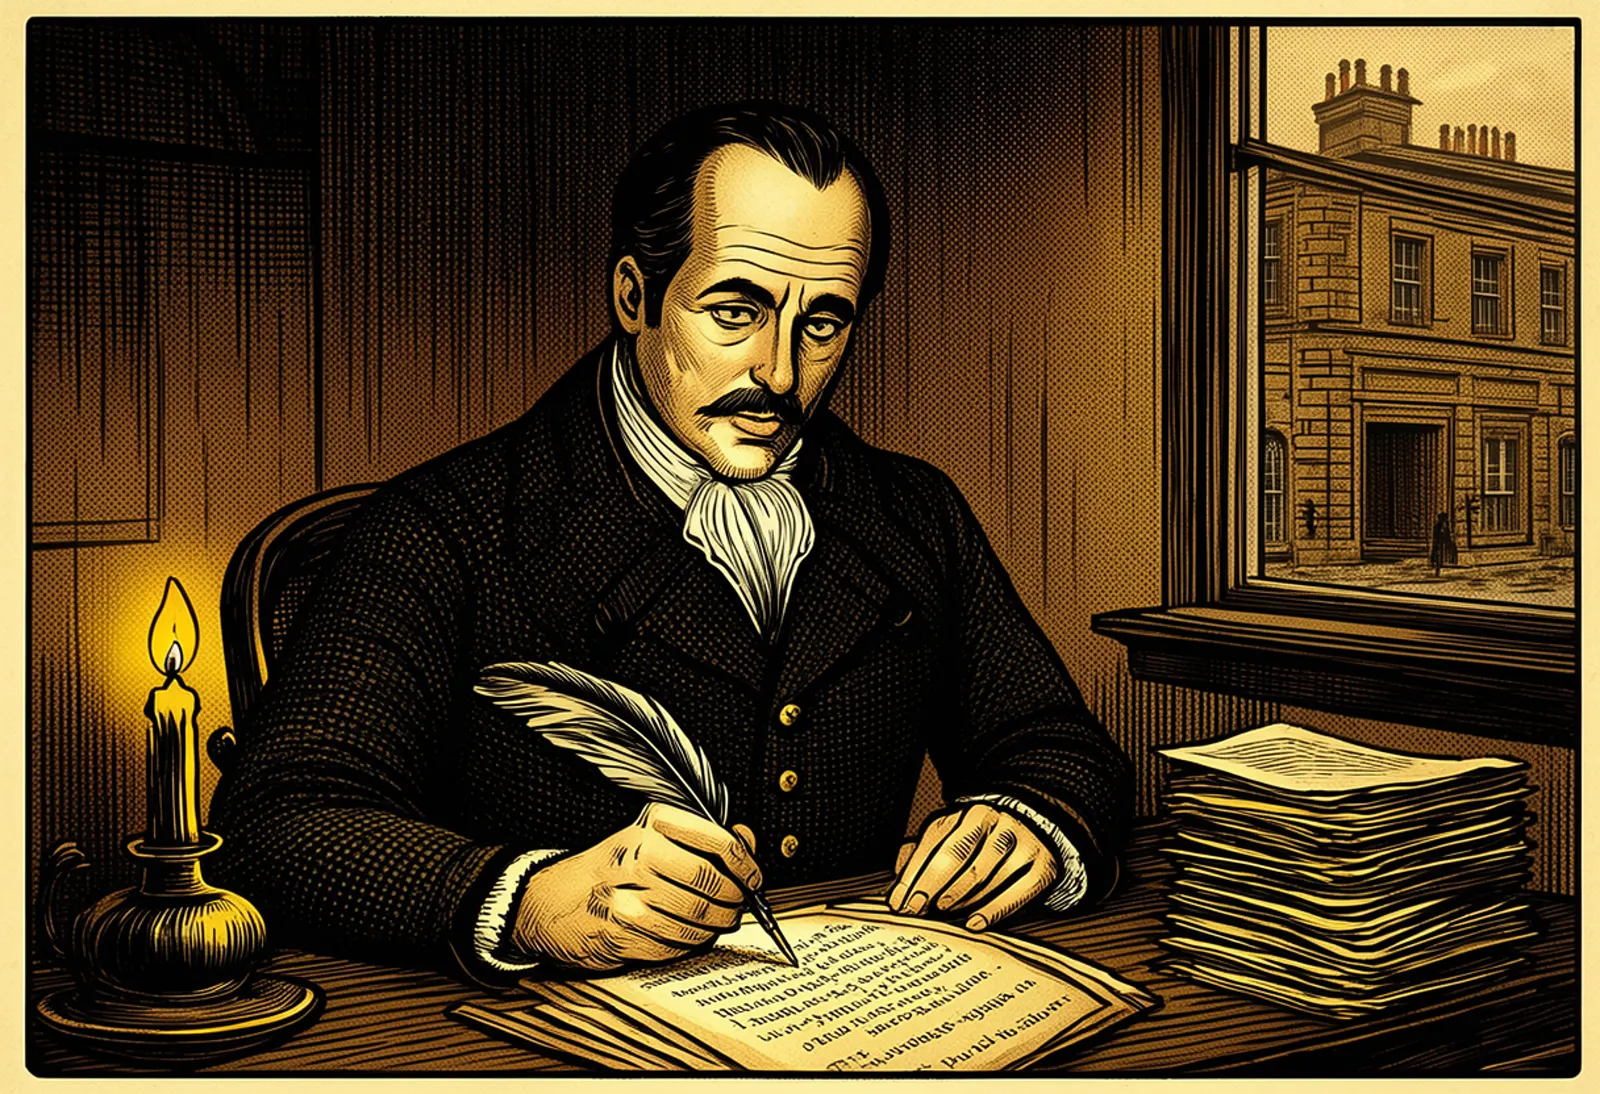
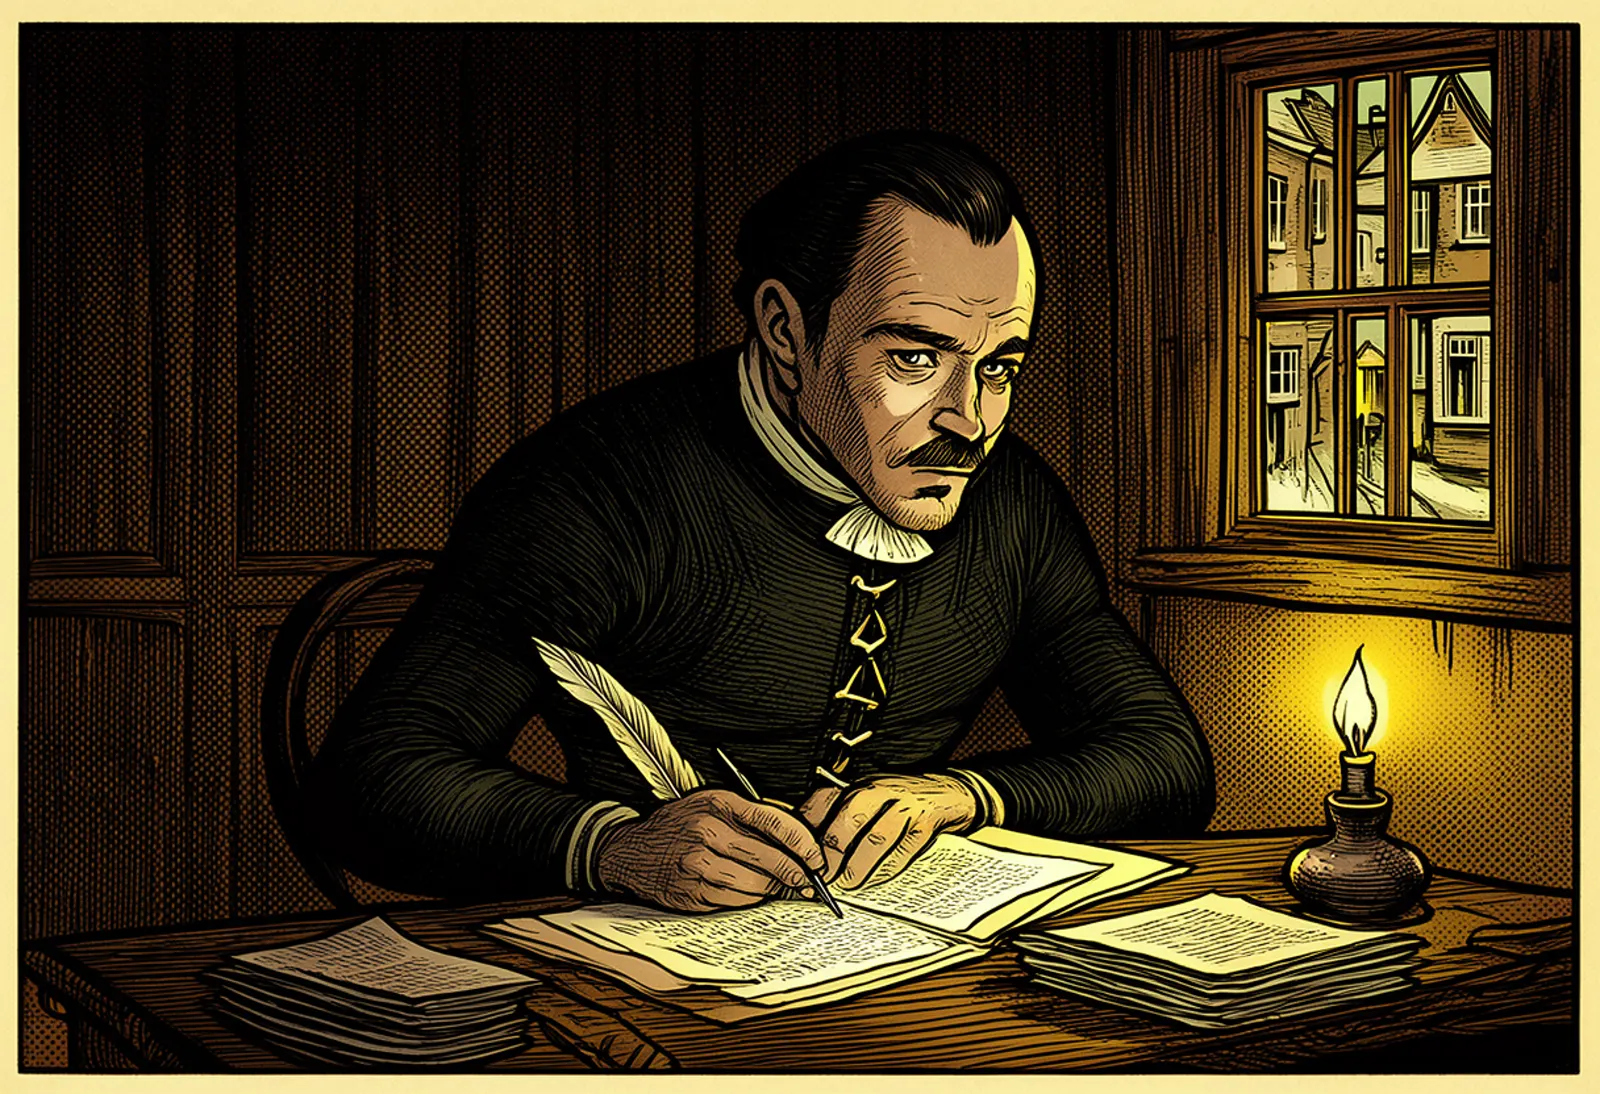
feat: 5 new Sections live: saladin, newton, franklin, hokusai, lincoln
Claude-Session: https://claude.ai/code/session_01CPt1uVasGb5EZh8GHwD75b

diff --git a/scripts/art/panels.py b/scripts/art/panels.py
@@ -10,7 +10,7 @@ STYLE = ("graphic novel comic book panel, bold black ink linework, cross-hatchin
          "limited palette of deep sepia brown, warm cream paper and burnished gold highlights, dramatic cinematic lighting, "
          "strong composition, highly detailed historical illustration")
 NEG = ("text, speech bubble, letters, caption, watermark, signature, logo, modern clothing, modern objects, "
-       "photorealistic photo, 3D render, blurry, lowres, deformed hands, extra fingers, extra limbs, cropped face, gore, blood, United States Capitol building, Washington DC, red cross emblem, duplicate person")
+       "photorealistic photo, 3D render, blurry, lowres, deformed hands, extra fingers, extra limbs, cropped face, gore, blood, United States Capitol building, Washington DC, red cross emblem, duplicate person, Victorian clothing, frock coat, Georgian architecture")
 
 MUSASHI = "a lean Japanese swordsman of the early 1600s with long unkempt black hair tied back, a rough dark kimono and hakama, a long and a short sword at his hip, calm fierce eyes"
 AURELIUS = "a Roman man with short curly hair and a full curly beard, thoughtful calm face"
@@ -54,7 +54,7 @@ if __name__ == "__main__":
     for key, scene in load_set(sid).items():
         if only and key not in only: continue
         out = os.path.join(out_dir, key + ".png")
-        if os.path.exists(out) and not only: print("skip", key, flush=True); continue
+        if os.path.exists(out) and os.path.getsize(out) > 0 and not only: print("skip", key, flush=True); continue
         r = subprocess.run([PY, CLIENT, "--prompt", f"{scene}, {STYLE}", "--negative", NEG, "--out", out, "--steps", STEPS,
                             "--cfg", CFG, "--width", "1216", "--height", "832", "--seed", str(random.randint(0, 2**31 - 1)), "--guidance", GUIDE],
                            capture_output=True, text=True)
